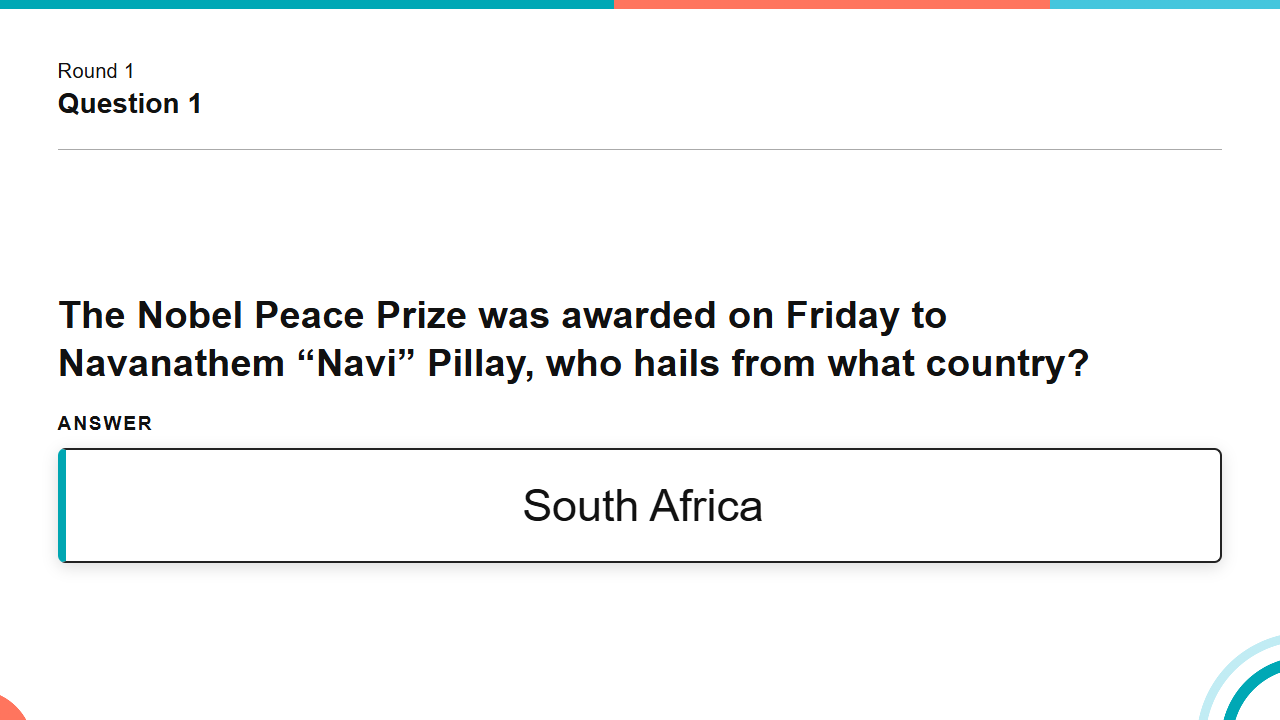
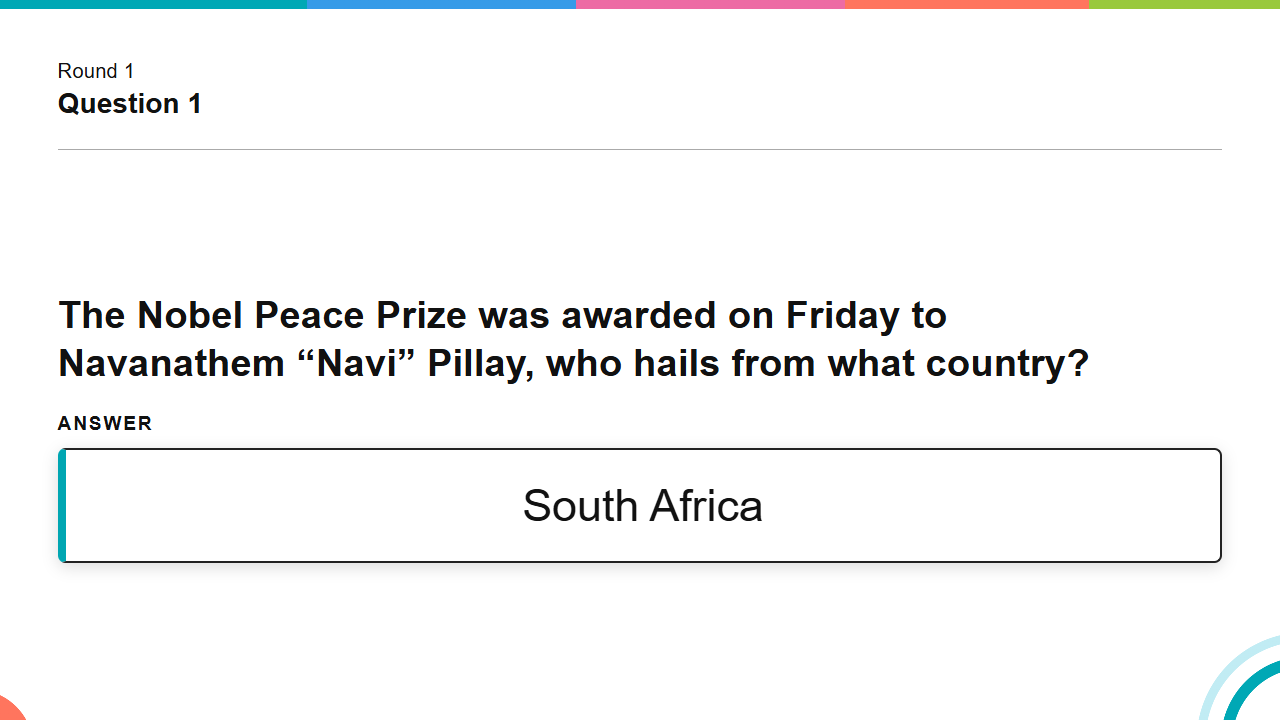
Allow timer setup before questions and broaden slide accents

Changed region(s): [[0.2188, 0.0, 0.6562, 0.0306], [0.8125, 0.0, 1.0, 0.0306]]

diff --git a/src/trivia/TriviaApp.tsx b/src/trivia/TriviaApp.tsx
@@ -42,12 +42,14 @@ export function TriviaApp({route}:{route:string}){
   </> }</main>;
 }
 
-function TriviaHost({deck,session:s,now,act,fail}:{deck:TriviaDeck;session:TriviaSession;now:number;act:(a:TriviaAction)=>void;fail:(e:unknown)=>void}){const c=deck.cards[s.index];const running=['question','answers'].includes(s.phase);return <div className="trivia-host"><section className="panel trivia-controls"><p>{s.title} · screen {s.index+1}/{deck.cards.length} · {s.phase}</p><div className="button-row"><button disabled={!s.history.length} onClick={()=>act({type:'previous'})}>← Back / undo</button><button className="primary" disabled={s.phase==='scores'&&s.checkpoint==='final'} onClick={()=>act({type:'next'})}>{s.phase==='card'&&c.kind==='question'?'Show question & start timer':'Next →'}</button><button onClick={()=>act({type:'intro'})}>Intro</button><select aria-label="Jump to trivia screen" value={s.index} onChange={e=>act({type:'jump',index:Number(e.target.value)})}>{deck.cards.map((card,i)=><option value={i} key={card.id}>{card.round} · {card.title}</option>)}</select></div><h2>{s.phase==='scores'?`${s.checkpoint} standings`:c.title}</h2><p className="trivia-host-prompt">{c.prompt}</p><div className="button-row">{s.phase==='scores'?<><button onClick={()=>act({type:'revealStanding'})}>Reveal next team ↑</button><button onClick={()=>act({type:'closeScores'})}>Close scores / return</button></>:<>{c.answers.length>6&&s.phase!=='answers'&&<button disabled={!running} onClick={()=>act({type:'showAnswerBoard'})}>Show answer board</button>}<button disabled={!running||s.revealed>=c.answers.length} onClick={()=>act({type:'reveal'})}>Reveal next answer ({s.revealed}/{c.answers.length})</button>{s.phase==='answers'&&<button onClick={()=>act({type:'hideAnswers'})}>Hide answers</button>}<button onClick={()=>act({type:'scores',checkpoint:'manual'})}>Show scores on TV</button></>}</div><QuestionTiming key={c.id+questionSeconds(s,c)} seconds={questionSeconds(s,c)} left={triviaLeft(s,now)} running={s.end!==null} disabled={!running} act={act}/><div className="trivia-sound-controls"><label><input type="checkbox" checked={s.muted} onChange={e=>{const muted=e.target.checked;void updateTrivia(current=>current?{...current,muted}:null).catch(fail);}}/> Mute</label><label>Sound volume<input aria-label="Trivia sound volume" type="range" min="0" max="1" step=".05" value={s.volume??.8} onChange={e=>{const volume=Number(e.target.value);void updateTrivia(current=>current?{...current,volume}:null).catch(fail);}}/></label><button onClick={()=>{void testSound(s.volume??.8,s.muted);}}>Enable / test sound</button><span>{audioReady()?'Sound ready · presenter output':'Sound not enabled yet'}</span></div><p className="subtle">Next: title card → question + timer → following screen. Scores appear before Round 3, before the final question, and after it. Space reveals; N / → next; U / ← back; T timer.</p></section><aside className="trivia-host-side"><div className="trivia-preview"><TriviaDisplay deck={deck} session={s} now={now}/></div></aside></div>;}
+function TriviaHost({deck,session:s,now,act,fail}:{deck:TriviaDeck;session:TriviaSession;now:number;act:(a:TriviaAction)=>void;fail:(e:unknown)=>void}){const c=deck.cards[s.index];const running=['question','answers'].includes(s.phase);return <div className="trivia-host"><section className="panel trivia-controls"><p>{s.title} · screen {s.index+1}/{deck.cards.length} · {s.phase}</p><div className="button-row"><button disabled={!s.history.length} onClick={()=>act({type:'previous'})}>← Back / undo</button><button className="primary" disabled={s.phase==='scores'&&s.checkpoint==='final'} onClick={()=>act({type:'next'})}>{s.phase==='card'&&c.kind==='question'?'Show question & start timer':'Next →'}</button><button onClick={()=>act({type:'intro'})}>Intro</button><select aria-label="Jump to trivia screen" value={s.index} onChange={e=>act({type:'jump',index:Number(e.target.value)})}>{deck.cards.map((card,i)=><option value={i} key={card.id}>{card.round} · {card.title}</option>)}</select></div><h2>{s.phase==='scores'?`${s.checkpoint} standings`:c.title}</h2><p className="trivia-host-prompt">{c.prompt}</p><div className="button-row">{s.phase==='scores'?<><button onClick={()=>act({type:'revealStanding'})}>Reveal next team ↑</button><button onClick={()=>act({type:'closeScores'})}>Close scores / return</button></>:<>{c.answers.length>6&&s.phase!=='answers'&&<button disabled={!running} onClick={()=>act({type:'showAnswerBoard'})}>Show answer board</button>}<button disabled={!running||s.revealed>=c.answers.length} onClick={()=>act({type:'reveal'})}>Reveal next answer ({s.revealed}/{c.answers.length})</button>{s.phase==='answers'&&<button onClick={()=>act({type:'hideAnswers'})}>Hide answers</button>}<button onClick={()=>act({type:'scores',checkpoint:'manual'})}>Show scores on TV</button></>}</div><QuestionTiming key={c.id} seconds={questionSeconds(s,c)} left={triviaLeft(s,now)} running={s.end!==null} beforeReveal={s.phase==='card'} disabled={c.kind!=='question'||s.phase==='scores'||s.phase==='intro'} act={act}/><div className="trivia-sound-controls"><label><input type="checkbox" checked={s.muted} onChange={e=>{const muted=e.target.checked;void updateTrivia(current=>current?{...current,muted}:null).catch(fail);}}/> Mute</label><label>Sound volume<input aria-label="Trivia sound volume" type="range" min="0" max="1" step=".05" value={s.volume??.8} onChange={e=>{const volume=Number(e.target.value);void updateTrivia(current=>current?{...current,volume}:null).catch(fail);}}/></label><button onClick={()=>{void testSound(s.volume??.8,s.muted);}}>Enable / test sound</button><span>{audioReady()?'Sound ready · presenter output':'Sound not enabled yet'}</span></div><p className="subtle">Next: title card → question + timer → following screen. Scores appear before Round 3, before the final question, and after it. Space reveals; N / → next; U / ← back; T timer.</p></section><aside className="trivia-host-side"><div className="trivia-preview"><TriviaDisplay deck={deck} session={s} now={now}/></div></aside></div>;}
 
-function QuestionTiming({seconds,left,running,disabled,act}:{seconds:number;left:number;running:boolean;disabled:boolean;act:(a:TriviaAction)=>void}){
- const [value,setValue]=useState(Math.min(600,Math.max(0,Math.round(seconds/15)*15)));
+function QuestionTiming({seconds,left,running,beforeReveal,disabled,act}:{seconds:number;left:number;running:boolean;beforeReveal:boolean;disabled:boolean;act:(a:TriviaAction)=>void}){
+ const rounded=Math.min(600,Math.max(0,Math.round(seconds/30)*30));
+ const [value,setValue]=useState(rounded);
+ useEffect(()=>setValue(rounded),[rounded]);
  const changed=value!==seconds;
- return <div className="trivia-question-timing"><label>Timer <strong>{formatTime(changed?value:left)}</strong><input aria-label="Seconds for this question" aria-valuetext={formatTime(value)} type="range" min="0" max="600" step="15" value={value} disabled={disabled} onChange={e=>setValue(Number(e.target.value))}/><span className="trivia-slider-scale">0:00 <span>10:00 · 15-second steps</span></span></label><button disabled={disabled} onClick={()=>act(!changed&&left>0?{type:'toggleTimer'}:{type:'duration',seconds:value,start:true})}>{running&&left>0&&!changed?'Pause':changed||left===0?'Restart timer':'Start timer'}</button></div>;
+ return <div className="trivia-question-timing"><label>Timer <strong>{formatTime(changed||beforeReveal?value:left)}</strong><input aria-label="Seconds for this question" aria-valuetext={formatTime(value)} type="range" min="0" max="600" step="30" list="trivia-timer-marks" value={value} disabled={disabled} onChange={e=>{const next=Number(e.target.value);setValue(next);if(beforeReveal)act({type:'duration',seconds:next});}}/><datalist id="trivia-timer-marks">{Array.from({length:21},(_,i)=><option key={i} value={i*30}/>)}</datalist><span className="trivia-slider-scale">{[0,150,300,450,600].map(n=><span key={n}>{formatTime(n)}</span>)}</span></label>{beforeReveal?<small>Saved automatically · starts when you show the question · 30-second steps</small>:<button disabled={disabled} onClick={()=>act(!changed&&left>0?{type:'toggleTimer'}:{type:'duration',seconds:value,start:true})}>{running&&left>0&&!changed?'Pause':changed||left===0?'Restart timer':'Start timer'}</button>}</div>;
 }
 
 function Brand(){return <div className="trivia-brand"><img src="./outspoken-dark.png" alt="Outspoken Entertainment"/></div>;}

diff --git a/src/trivia/dark.css b/src/trivia/dark.css
@@ -307,3 +307,12 @@
 .trivia-slide .trivia-combined .trivia-answer-list .answer-hidden:nth-child(3n){border-left-color:#45c6dd}
 .trivia-slide .trivia-transition-scoring{border-bottom-color:#00a8b5}
 .trivia-slide .intro-orbit{opacity:.4;border-color:#00a8b5;box-shadow:0 0 0 2cqw #ff755e44,0 0 0 4cqw #45c6dd22}
+.trivia-question-timing{display:flex;position:relative;padding-top:14px;gap:8px}.trivia-question-timing label{flex:1 0 100%;max-width:none;width:100%}.trivia-question-timing input[type=range]{width:100%;max-width:none;margin-top:16px}.trivia-question-timing label>strong{float:none;display:inline-block;margin-left:12px}.trivia-question-timing>button{position:absolute;right:0;top:7px;padding:6px 12px}.trivia-question-timing .trivia-slider-scale{display:flex;justify-content:space-between;width:100%;margin-top:0}.trivia-question-timing>small{font-size:11px;color:#333}
+/* A broader accent palette, kept out of the text surfaces. */
+.trivia-slide .trivia-stage{border-image:linear-gradient(90deg,#00a8b5 0 24%,#369be8 24% 45%,#ed6ba4 45% 66%,#ff755e 66% 85%,#99c93c 85% 100%) 1}
+.trivia-slide .trivia-combined .trivia-answer-list :is(.answer-shown,.answer-hidden):nth-child(5n+2){border-left-color:#369be8}
+.trivia-slide .trivia-combined .trivia-answer-list :is(.answer-shown,.answer-hidden):nth-child(5n+3){border-left-color:#ed6ba4}
+.trivia-slide .trivia-combined .trivia-answer-list :is(.answer-shown,.answer-hidden):nth-child(5n+4){border-left-color:#ff755e}
+.trivia-slide .trivia-combined .trivia-answer-list :is(.answer-shown,.answer-hidden):nth-child(5n){border-left-color:#99c93c}
+.trivia-slide .trivia-prompt-items li:nth-child(even) .paired-answer{border-left-color:#369be8}
+.trivia-slide .intro-orbit{border-color:#369be8;box-shadow:0 0 0 2cqw #ed6ba455,0 0 0 4cqw #99c93c33}

diff --git a/src/trivia/engine.ts b/src/trivia/engine.ts
@@ -53,7 +53,7 @@ export function reduceTrivia(state:TriviaSession,action:TriviaAction,deck:Trivia
     const left=triviaLeft(s,now);s.remaining=left||questionSeconds(s,c);s.end=s.end===null?now+s.remaining*1000:null;s.started=true;
   }else if(action.type==='extend'){if(!['question','answers'].includes(s.phase))return state;s.extensionAt=now;s.remaining=triviaLeft(s,now)+30;if(s.end!==null)s.end=now+s.remaining*1000;}
   else if(action.type==='duration'){
-    if(c.kind!=='question'||s.phase==='scores'||!Number.isInteger(action.seconds)||action.seconds<0||action.seconds>600||action.seconds%15!==0)return state;
+    if(c.kind!=='question'||s.phase==='scores'||!Number.isInteger(action.seconds)||action.seconds<0||action.seconds>600||action.seconds%30!==0)return state;
     s.durations={...s.durations,[c.id]:action.seconds};s.remaining=action.seconds;if(s.end!==null||action.start)s.end=now+action.seconds*1000;if(action.start)s.started=true;
   }
   else if(action.type==='resetTimer'){s.remaining=questionSeconds(s,c);s.end=null;s.started=false;}

diff --git a/README.md b/README.md
@@ -200,7 +200,7 @@ All question inputs stay visible together, with compact headers such as R1Q4 and
 
 ### Trivia timer cues and answer animation
 
-Use the timer slider (0–10 minutes in 15-second steps) and its single Start / Pause / Restart button. Sound controls sit below. The + keyboard shortcut still adds 30 seconds. At 60 and 30 seconds remaining, large coral text travels down from the timer over a dimmed card, holds briefly, then returns to the timer, accompanied by a gentle tone. The last ten seconds have a large centered countdown over the dimmed card and quiet ticks; the countdown stays until time expires. Pausing hides the countdown; adding time removes it immediately when more than ten seconds remain and displays **+30 seconds** beside the timer. Sound follows presenter mute/volume and never duplicates on the TV.
+Use the timer slider (0–10 minutes in 30-second steps) and its single Start / Pause / Restart button. Sound controls sit below. The + keyboard shortcut still adds 30 seconds. At 60 and 30 seconds remaining, large coral text travels down from the timer over a dimmed card, holds briefly, then returns to the timer, accompanied by a gentle tone. The last ten seconds have a large centered countdown over the dimmed card and quiet ticks; the countdown stays until time expires. Pausing hides the countdown; adding time removes it immediately when more than ten seconds remain and displays **+30 seconds** beside the timer. Sound follows presenter mute/volume and never duplicates on the TV.
 
 Questions with up to six answers open with large question text and hidden answer boxes together. **Reveal next answer** flips a box in place and hides the timer without moving the question. Crowded questions, including the final bonus, use a separate answer view; **Show answer board** prepares that view without revealing answers. Single answers are large and centered, without numbering. Reduced-motion preferences disable movement. The private score-sheet answer card is unchanged.
 
@@ -217,3 +217,5 @@ Turquoise, warm yellow and coral decorate the slide edges and answer borders; al
 Trivia standings use light cards with black text and gold/silver/bronze accents keyed to actual rank (including silver for second with two teams). Tied ranks receive the same accent. The October final asks for 10 answers publicly while preserving all accepted answers for grading.
 
 Answer faces are crisp white. Stronger turquoise/coral edge stripes, corner rings and answer borders add color without tinting the text surfaces.
+
+Set the timer on a question title card before revealing it; changes save automatically and the countdown starts when the question opens. The full-width slider has half-minute ticks and labeled time markers.

diff --git a/TEST-REPORT.md b/TEST-REPORT.md
@@ -176,3 +176,6 @@ Presenter timer is a 0–600-second slider in 15-second increments with a single
 
 ### Stronger edge accents
 Removed cream-yellow answer fill. Increased top stripe, corner decoration and answer-border color while retaining white faces and black text. Production build and October deck geometry/contrast checks pass at 720p/1080p; combined answer screenshot visually inspected.
+
+### Timer setup before reveal and broader accents
+Timer slider is enabled on question title cards, autosaves without starting, spans available control width and has 30-second ticks/time labels. Browser checks verify pre-reveal save/reload with no question leak, automatic start, endpoints, pause/resume and laptop fit. Added blue, pink and lime decorative accents while retaining black-on-white text. Typecheck, lint, timing tests and production build pass.
